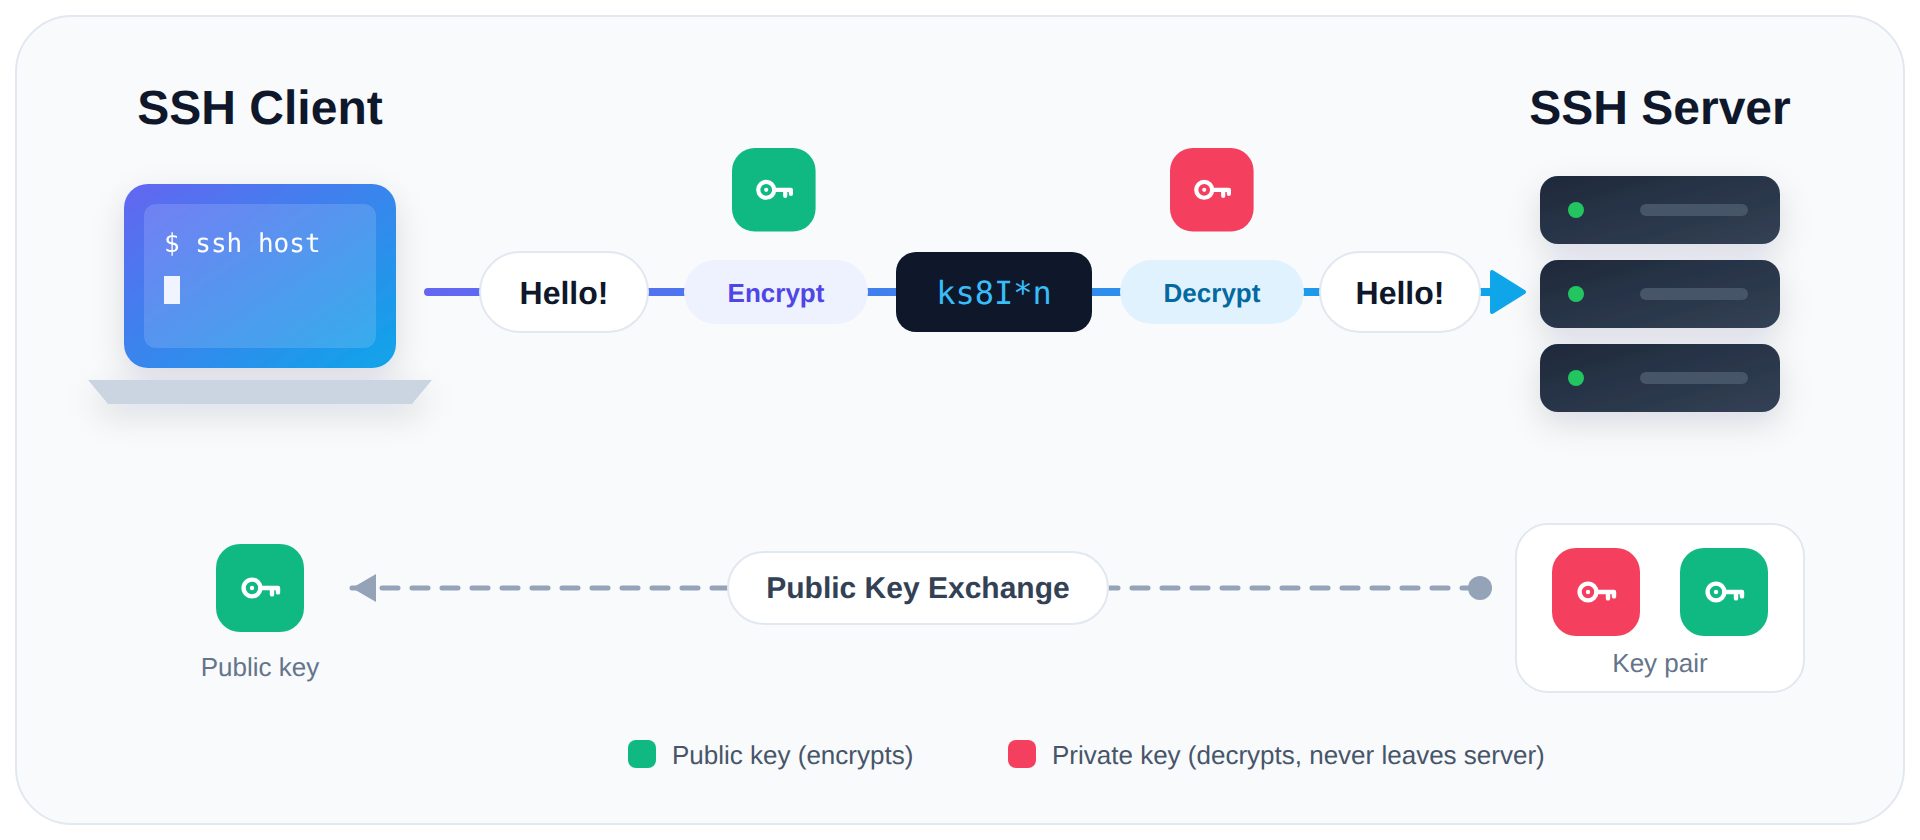
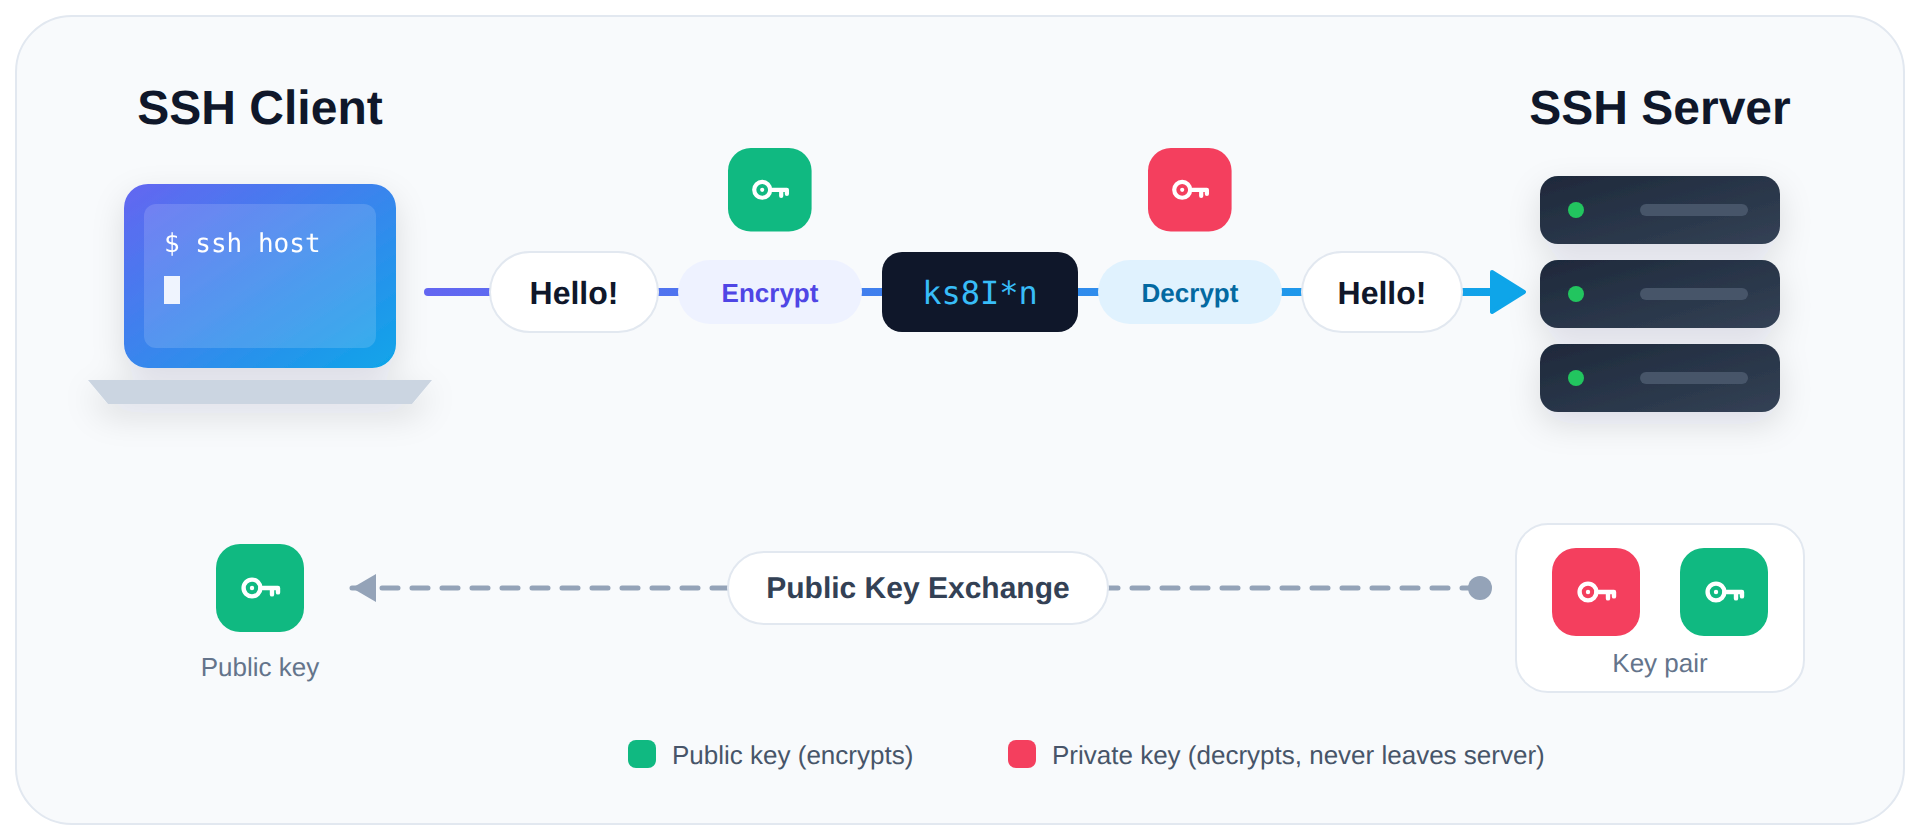
Widen SSH diagram to 720 and even out box spacing
Claude-Session: https://claude.ai/code/session_01GhSoMsfN1aGZ43DaUH2666

diff --git a/Ubuntu/ubuntu_cli.md b/Ubuntu/ubuntu_cli.md
@@ -1,6 +1,6 @@
 # Ubuntu CLI
 
-Rev. 18 | Created: 2026-07-06 | Updated: 2026-09-30 03:19 UTC
+Rev. 19 | Created: 2026-07-06 | Updated: 2026-09-30 13:00 UTC
 
 > Commands in this document are written for **Ubuntu**.
 
@@ -172,7 +172,7 @@ ssh <USER>@<HOST_IP>          # Log in to a remote host as <USER>
 ssh ubuntu@192.168.0.10       # Example
 ```
 
-<img src="ubuntu_cli_fig/fig1.png" width="480" style="max-width: 100%;" alt="Fig 1">
+<img src="ubuntu_cli_fig/fig1.png" width="720" style="max-width: 100%;" alt="Fig 1">
 
 Fig 1. SSH encrypts traffic with keys exchanged between client and server
 
